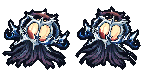
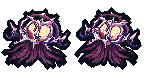
art: V13 Paranoia phase-two redesign

Changed region(s): [[0.0, 0.1389, 0.5, 0.9444], [0.5, 0.0833, 1.0, 0.9167]]

diff --git a/art/incoming/v13_batch_3_handoff.md b/art/incoming/v13_batch_3_handoff.md
@@ -1,0 +1,7 @@
+# V13 Boss 第二单，第 3 批
+- 文件：e_paranoia_phase2, e_paranoia_phase2_move；每项含 1× 与 @2x，尺寸/帧数/fps/锚点/SHA-256 见 v13_batch_3_manifest.json。
+- 接触表：v13_batch_3_preview.png，左侧为现有本体待机，右侧为新帧条 @2x；深蓝底仅用于预览。
+- 保留现有 Boss 造型，朝右、二值透明、1× 1px / @2x 2px #080E18 外描边；只画身体与实物武器，无技能特效。
+- 来源：现有 e_* 本体像素与用户确认的卡门刺剑截图；高精图试作因改动服装而弃用，正式帧以现有像素本体修正。
+- QA：像素帧条验证器检查等宽、描边、脚底、透明度、调色板与帧差异；游戏实机留待接入方按 V13 验收。
+- 覆盖前泡影二阶段本体源图可在提交 784edc3 查看；manifest 的 source_sha256 指向该旧版。
